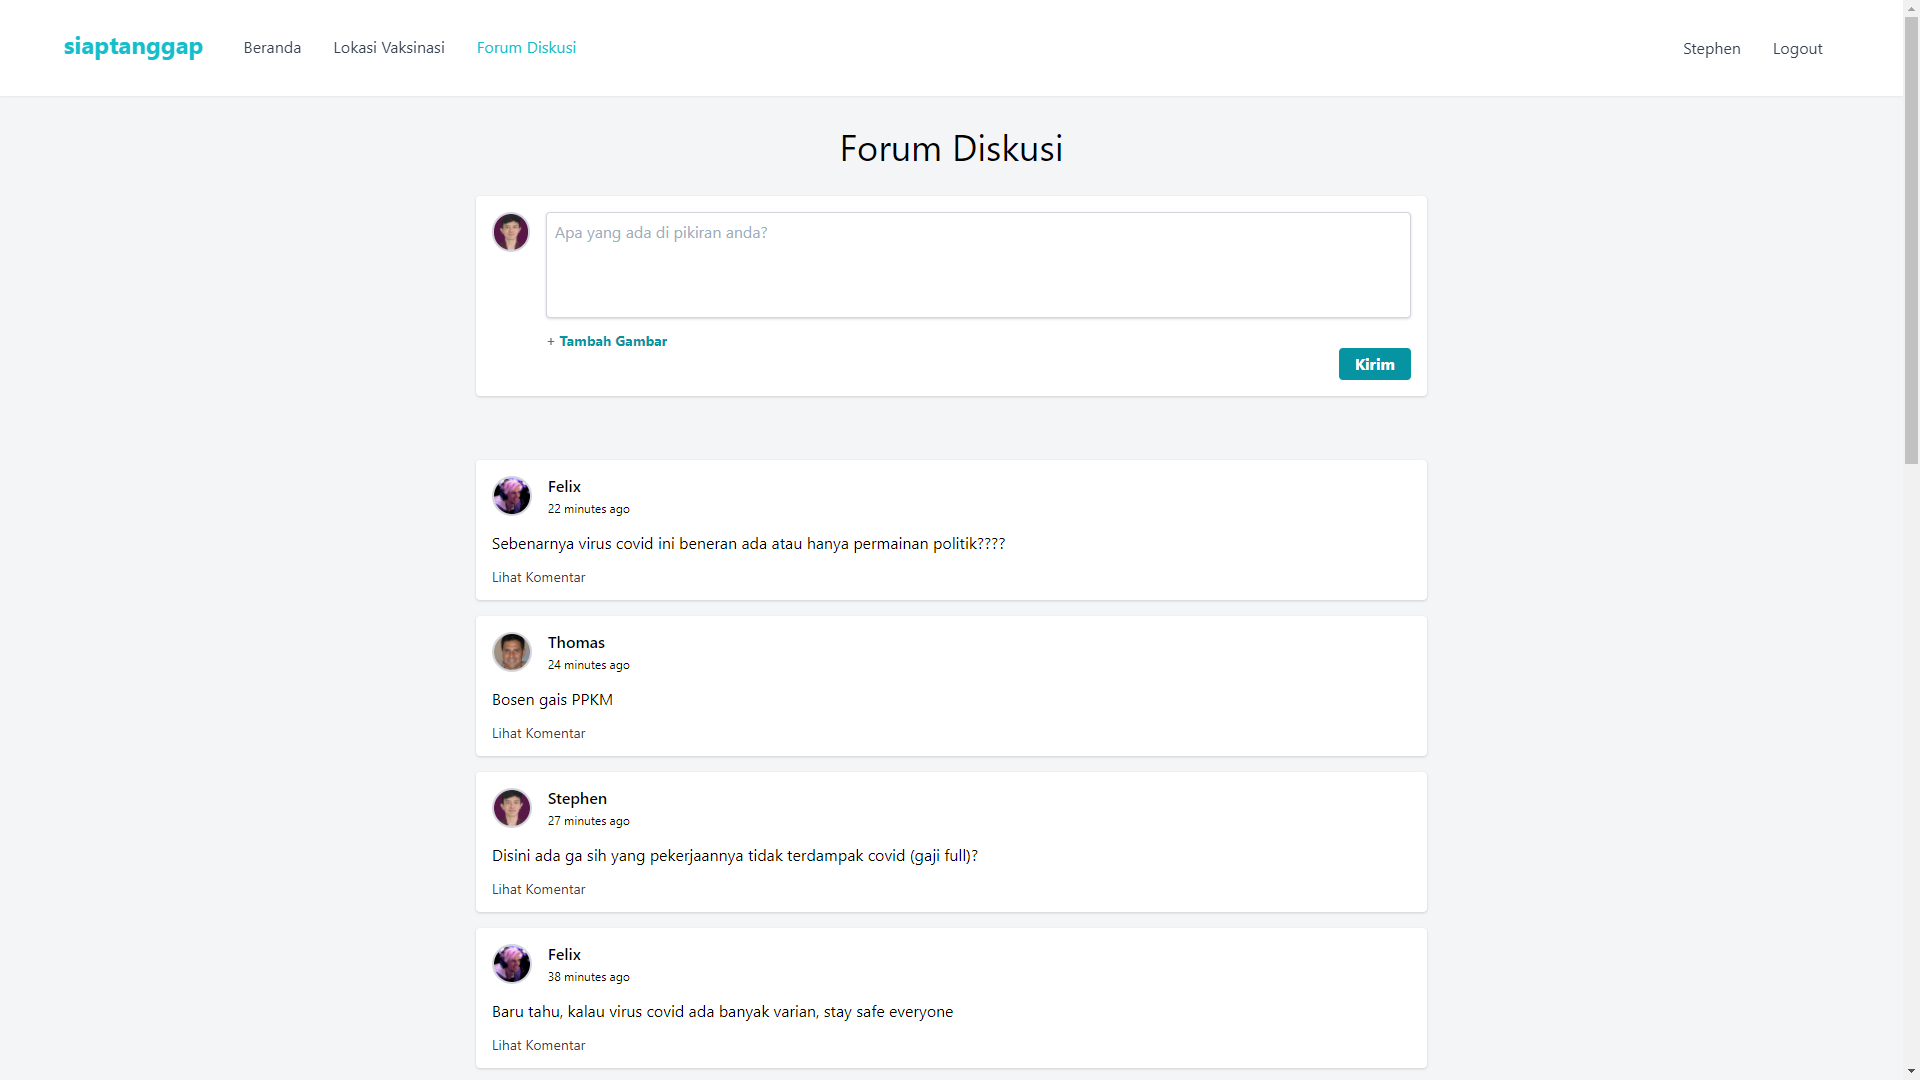
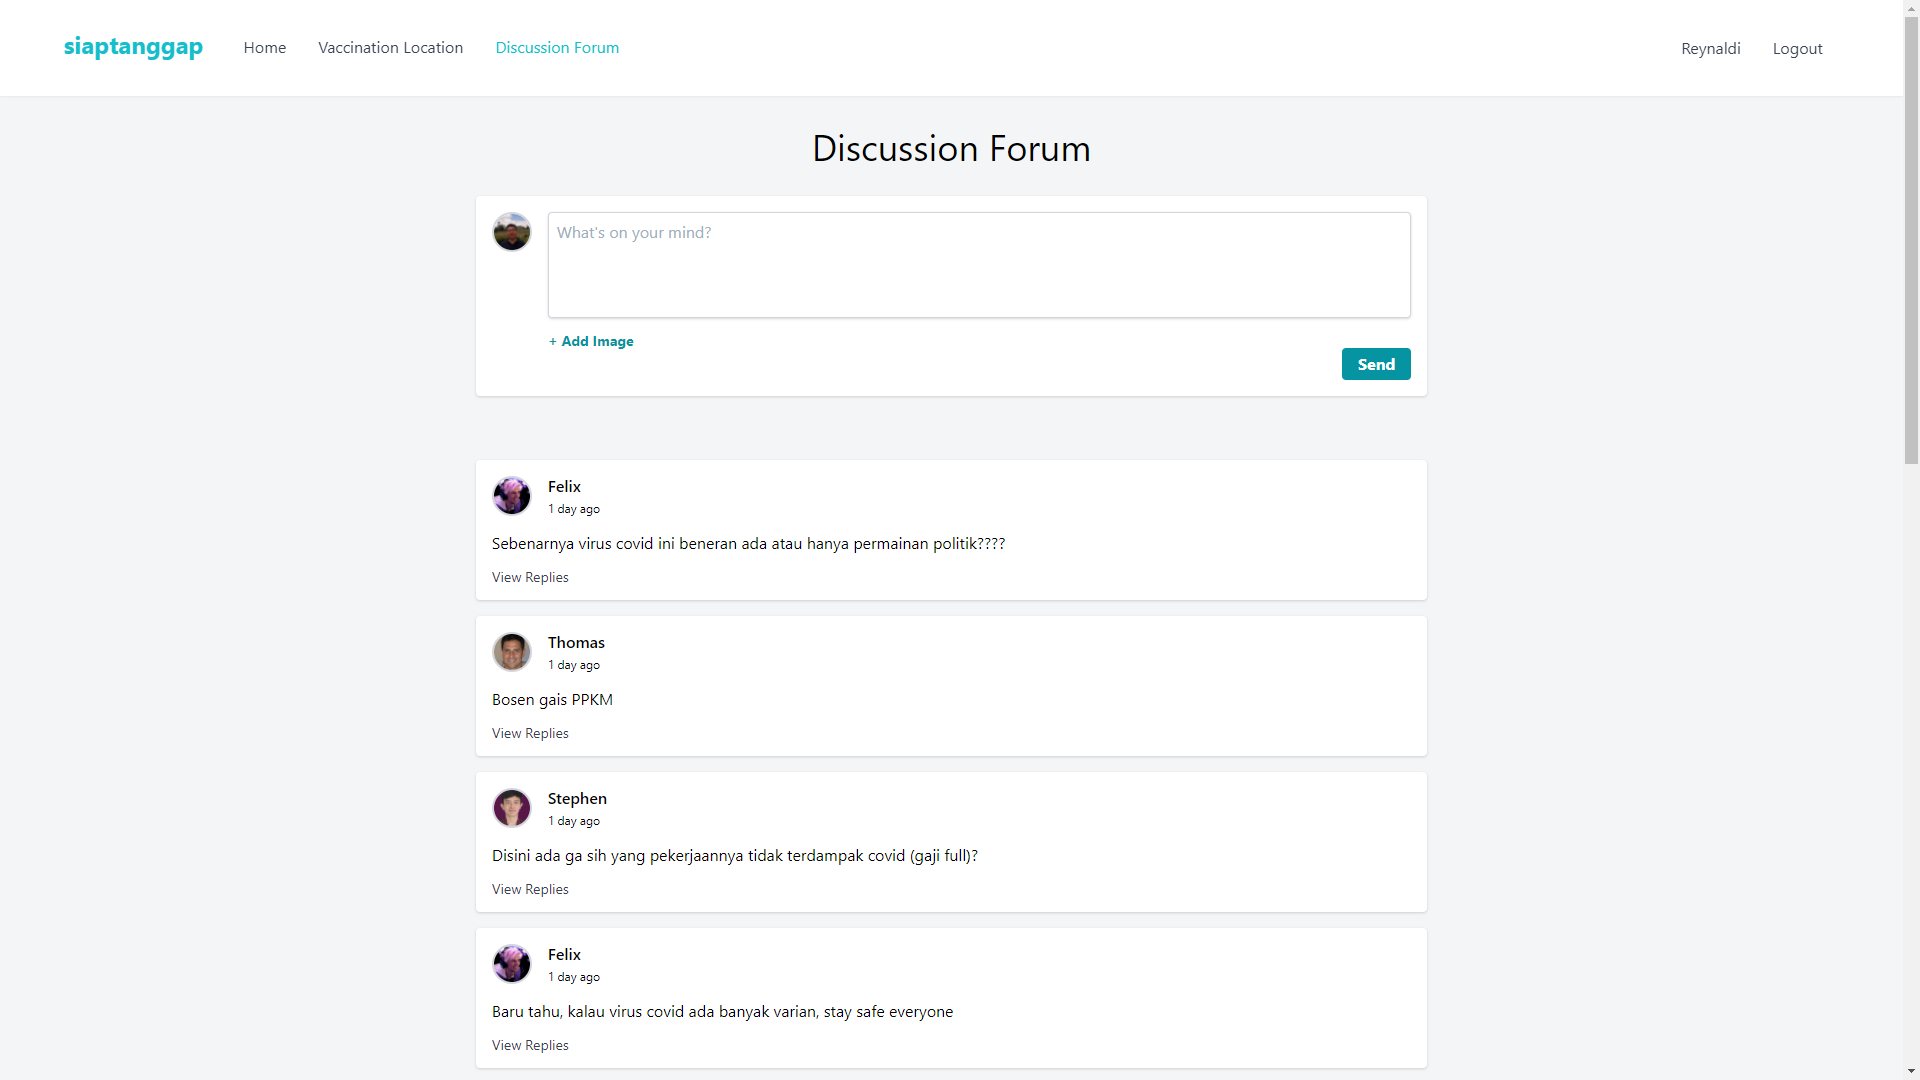
Update docs

diff --git a/README.md b/README.md
@@ -1,31 +1,31 @@
 # siaptanggap
 
-Pusat informasi Covid-19 di Indonesia. Dapatkan informasi terbaru terkait Covid-19 serta pelaksanaan vaksinasi di Indonesia.
+Information Center for Covid-19 in Indonesia. Get latest news related to Covid-19 and vaccinations in Indonesia.
 
-## Teknologi
+## Technology
 - Laravel 8
 - TailwindCSS
 - MySQL
 - PHP
 
-## Penggunaan
-Instalasi
-1. Unzip folder projek dan jalankan program XAMPP
-2. Buat database di phpmyadmin dengan nama database "siap-tanggap" (tanpa kutip)
-3. Import database dari file siap-tanggap.sql
-4. Masukkan folder siap-tanggap ke directory htdocs XAMPP seperti pada gambar
+## Usage
+Installation
+1. Unzip the project folder and run the XAMPP program.
+2. Create database in phpmyadmin with the name "siap-tanggap" (without quotes)
+3. Import database from siap-tanggal.sql file
+4. Insert siap-tanggap folder into XAMPP htdocs directory, as shown in the picture
 ![](docs/directory.png)
-5. Buka browser pada URL http://localhost/siap-tanggap/ seperti pada gambar
+5. Open browser with the URL http://localhost/siap-tanggap/, as shown in the picture
 ![](docs/localhost.png)
 
-Credentials user untuk login dapat menggunakan:
+User credentials for login:
 - reynaldi@user.com
 - stephen@user.com
 - naomi@user.com
 - thomas@user.com
 - felix@user.com
 
-dengan password 12345678
+with the password 12345678
 
 ## Screenshots
 ![](docs/landing.png)
@@ -38,6 +38,6 @@ dengan password 12345678
 ![](docs/forum.png)
 ![](docs/forum-detail.png)
 
-## Kelompok BINUS40TahunBerkarya
+## Team BINUS40TahunBerkarya
 - Reynaldi Chernando
 - Stephen Leonardo
